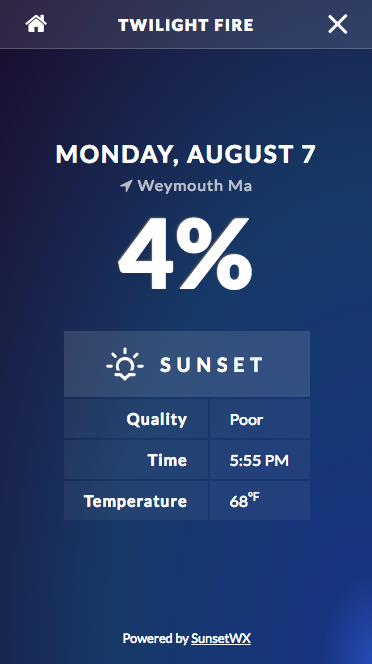
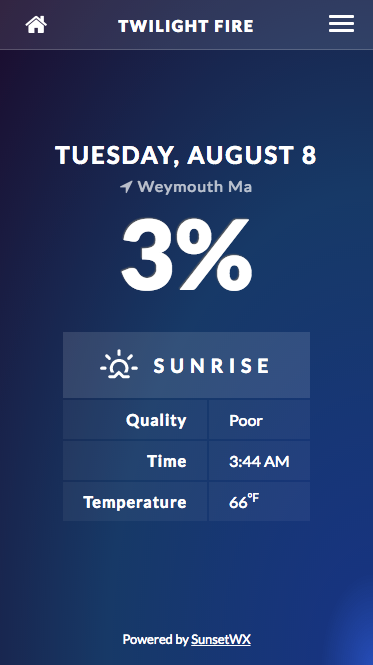
revisions to button menu with new prediction

diff --git a/build/app.js b/build/app.js
@@ -139,7 +139,7 @@ App.Form = (function($) {
       //Render results page
       .then(function() {
         App.Render.renderSunEvent();
-        $('.resultsPage--toggle-form').removeClass('active');
+        $('.resultsPage--toggle-form, .button-menu').removeClass('active');
       })
       //Catch for any errors
       .catch(function() {

diff --git a/src/js/form.js b/src/js/form.js
@@ -44,7 +44,7 @@ App.Form = (function($) {
       //Render results page
       .then(function() {
         App.Render.renderSunEvent();
-        $('.resultsPage--toggle-form').removeClass('active');
+        $('.resultsPage--toggle-form, .button-menu').removeClass('active');
       })
       //Catch for any errors
       .catch(function() {
